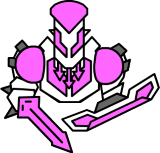
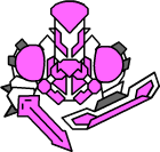
Buffed the Knight, lowered Queen charge damage, fixed bugs, updated art

Changed region(s): [[0.0, 0.0, 1.0, 1.0]]

diff --git a/js/menus.js b/js/menus.js
@@ -6,6 +6,7 @@ function LoadingScreen() {
         'abilityArtillery',
         'abilityBlink',
         'abilityCannon',
+        'abilityCritical Blast',
         'abilityDecimation',
         'abilityFire',
         'abilityGyro Slash',
@@ -19,6 +20,7 @@ function LoadingScreen() {
         'abilityPlus',
         'abilityReflect',
         'abilityReflector',
+        'abilityShell',
         'abilityStasis',
         'abilitySweeping Blade',
         'abilitySword',
@@ -49,6 +51,8 @@ function LoadingScreen() {
         'bossFireSegment',
         'bossFlame',
         'bossHeavy',
+        'bossHeavyCoverLeft',
+        'bossHeavyCoverRight',
         'bossLaser',
         'bossMine',
         'bossPunch',
@@ -74,6 +78,8 @@ function LoadingScreen() {
         'enemyHeavyBouncer',
         'enemyHeavyBouncerBack',
         'enemyHeavyGrabber',
+        'enemyHeavyGrabberArmLeft',
+        'enemyHeavyGrabberArmRight',
         'enemyHeavyMedic',
         'enemyHeavyMelee',
         'enemyHeavyOrbiter',
@@ -95,6 +101,7 @@ function LoadingScreen() {
         'enemyLightBouncer',
         'enemyLightBouncerBack',
         'enemyLightGrabber',
+        'enemyLightGrabberArm',
         'enemyLightMedic',
         'enemyLightMelee',
         'enemyLightOrbiter',
@@ -104,6 +111,8 @@ function LoadingScreen() {
         'enemyPointer',
         'enemyRailer',
         'enemySnatcher',
+        'enemySnatcherArmLeft',
+        'enemySnatcherArmRight',
         'enemySolar',
         'enemySolarBack',
         'enemyTurret',
@@ -136,10 +145,12 @@ function LoadingScreen() {
         'GuardianShieldRechargeUI',
         'GuardianShieldRechargeUISelected',
         'hammer',
+        'healingPad',
+        'healthBarSymbol',
         'HeavyBomberMine',
-        'KnightArrowVolleyCountUI',
-        'KnightArrowVolleyCountUISelected',
         'KnightBar',
+        'KnightGrappleStunUI',
+        'KnightGrappleStunUISelected',
         'KnightMovementSpeedUI',
         'KnightMovementSpeedUISelected',
         'KnightShieldRechargeUI',
@@ -231,6 +242,7 @@ function LoadingScreen() {
         'upgradeDual',
         'upgradeExplosion',
         'upgradeFlamethrower',
+        'upgradeGrapple',
         'upgradeHeal',
         'upgradeHealth',
         'upgradeKnockback',

diff --git a/js/player/base.js b/js/player/base.js
@@ -343,15 +343,16 @@ function BasePlayer(sprite, healthScale, damageScale, shieldScale, speedScale) {
                 var healthPercent = this.health / this.maxHealth;
                 var shieldPercent = this.shield / (this.maxHealth * SHIELD_MAX);
                 canvas.beginPath();
-                canvas.arc(this.x, this.y, 75, -Math.PI * 9 / 10, -((1 - healthPercent) * Math.PI * 9 / 10), false);
+                canvas.arc(this.x, this.y, 75, ((1 - healthPercent) * Math.PI * 8 / 10) - Math.PI * 9 / 10, -Math.PI / 10, false);
                 if (healthPercent > 0.66) canvas.strokeStyle = '#0f0';
                 else if (healthPercent > 0.33) canvas.strokeStyle = '#ff0';
                 else canvas.strokeStyle = '#f00';
                 canvas.stroke();
                 canvas.beginPath();
-                canvas.arc(this.x, this.y, 75, (1 - shieldPercent) * Math.PI * 9 / 10, Math.PI * 9 / 10);
+                canvas.arc(this.x, this.y, 75, Math.PI / 10, Math.PI / 10 + shieldPercent * Math.PI * 8 / 10);
                 canvas.strokeStyle = '#00f';
                 canvas.stroke();
+                canvas.drawImage(GetImage('healthBarSymbol'), this.x + 50, this.y - 20);
 				
                 // Draw skill icon
                 if (this.ability) {

diff --git a/js/game/enemyManager.js b/js/game/enemyManager.js
@@ -151,10 +151,13 @@ function EnemyManager(screen) {
                     var num = Math.round(this.enemies[i].exp * this.expM[playerManager.players.length - 1]);
                     for (var e = 0; e < this.expData.length; e++) {
                         var data = this.expData[e];
-                        while (data.value * playerManager.players.length <= num) {
-							for (var player = 0; player < playerManager.players.length; player++) {
+                        var allDead = false;
+                        while (!allDead && data.value * playerManager.players.length <= num) {
+                            allDead = true;
+                            for (var player = 0; player < playerManager.players.length; player++) {
                                 var robot = playerManager.players[player % playerManager.players.length].robot;
                                 if (robot.health <= 0) continue;
+                                allDead = false;
 								num -= data.value;
 								var direction = Vector(0, BULLET_SPEED);
 								direction.Rotate(Rand(360) * Math.PI / 180);

diff --git a/js/player/knight.js b/js/player/knight.js
@@ -1,7 +1,7 @@
 function PlayerKnightType() {
     var p = BasePlayer(
         GetImage('pKnightBody'),
-		20,
+		25,
 		0.1,
 		3
     );
@@ -93,7 +93,7 @@ function PlayerKnightType() {
         this.Grapple(this.grappleData);
         
         // Sword
-        this.swordData.damage = 5 * m;
+        this.swordData.damage = 8 * m;
         this.swordData.arc = Math.PI / 3 + this.upgrades[SLASH_ID] * Math.PI / 18;
         this.swordData.lifesteal = 0.1 + this.upgrades[LIFESTEAL_ID] * 0.04;
         this.Slash(this.swordData);

diff --git a/js/constants.js b/js/constants.js
@@ -102,8 +102,8 @@ PLAYER_DATA = [
 		player: PlayerKnightType,
 		preview: 'pKnight',
 		name: 'Knight',
-		ups: ['ArrowVolleyCount', 'SwordSwingArc', 'SwordLifeSteal', 'ShieldRecharge', 'MovementSpeed'],
-		icons: ['Arrow', 'Slash', 'Lifesteal', 'Shield', 'Speed'],
+		ups: ['GrappleStun', 'SwordSwingArc', 'SwordLifeSteal', 'ShieldRecharge', 'MovementSpeed'],
+		icons: ['Grapple', 'Slash', 'Lifesteal', 'Shield', 'Speed'],
         color: '#fcf',
 		weapons: [ 'Quiver Gun', 'Sword' ],
 		skills: [

diff --git a/js/enemy/bossEnemies.js b/js/enemy/bossEnemies.js
@@ -448,7 +448,7 @@ function QueenBoss(x, y) {
 	
 	// Stats for collision
 	enemy.scale = 1;
-	enemy.damage = 10 * damageScale;
+	enemy.damage = 6 * damageScale;
 	enemy.distance = 400;
 	enemy.chargeDuration = 180;
     enemy.patternTimer = enemy.patternMax;
